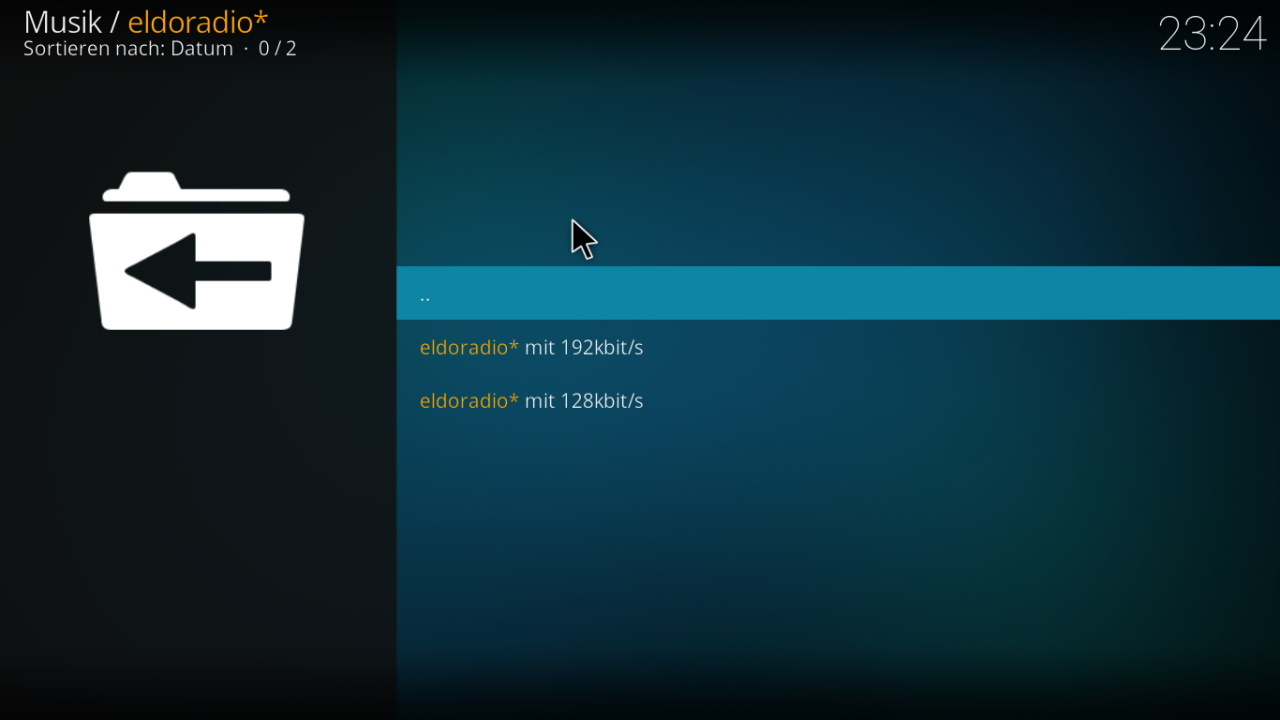
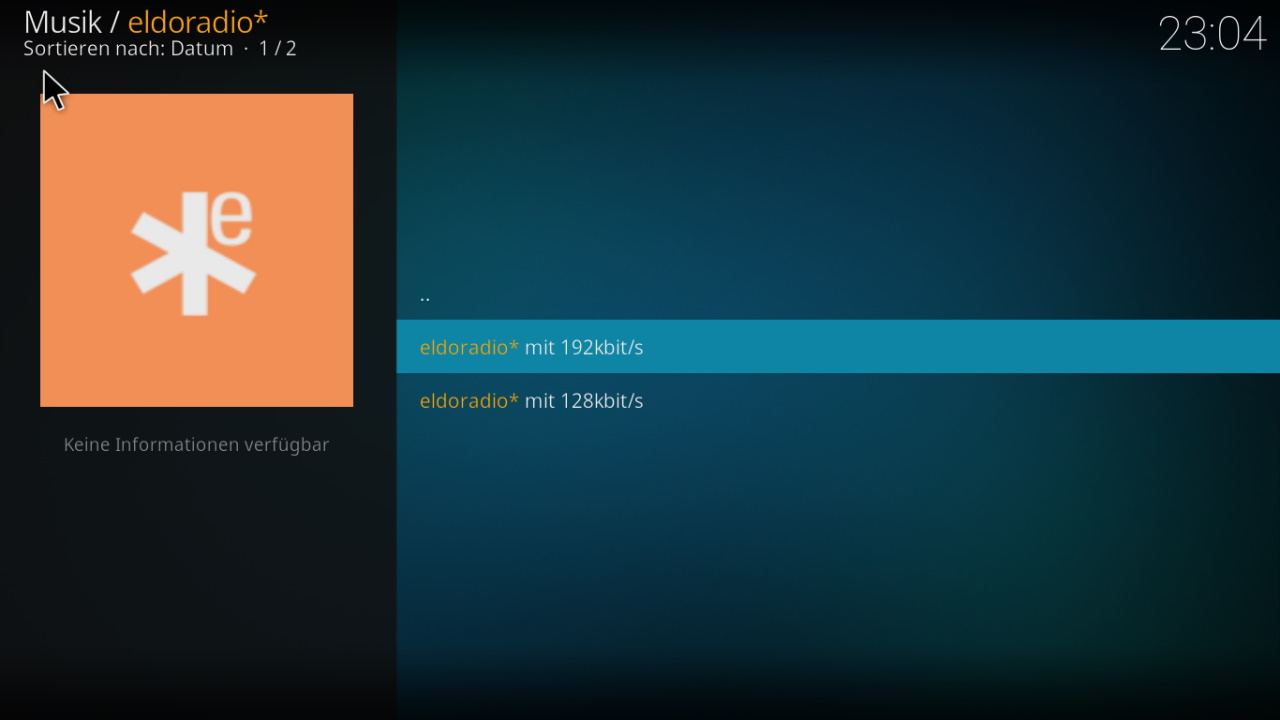
Den Sendern  Bilder hinzugefügt und Screenshorts Aktualisiert

diff --git a/plugin.audio.eldoradio/addon.py b/plugin.audio.eldoradio/addon.py
@@ -2,16 +2,19 @@
 # -*- coding: utf-8 -*-
 import xbmcplugin,xbmcaddon,xbmcgui,os,sys
 
+addon = xbmcaddon.Addon()
+addon_path = addon.getAddonInfo('path').decode('utf-8')
+icons_path = os.path.join(addon_path,'resources')
 xbmcplugin.setContent(handle=int(sys.argv[1]), content='songs')
 				
-def add_item(url,infolabels,):
-    listitem = xbmcgui.ListItem(infolabels['title'])
+def add_item(url,infolabels,img=''):
+    listitem = xbmcgui.ListItem(infolabels['title'],iconImage=img,thumbnailImage=img)
     listitem.setInfo('audio',infolabels)
     listitem.setProperty('IsPlayable','true')
     xbmcplugin.addDirectoryItem(int(sys.argv[1]),url,listitem)
 
-add_item('http://www.eldoradio.de/broadcast/192.m3u',{'title':'[COLOR orange]eldoradio*[/COLOR] mit 192kbit/s'})
-add_item('http://www.eldoradio.de/broadcast/128.m3u',{'title':'[COLOR orange]eldoradio*[/COLOR] mit 128kbit/s'})
+add_item('http://www.eldoradio.de/broadcast/192.m3u',{'title':'[COLOR orange]eldoradio*[/COLOR] mit 192kbit/s'},os.path.join(icons_path,'icon.png'))
+add_item('http://www.eldoradio.de/broadcast/128.m3u',{'title':'[COLOR orange]eldoradio*[/COLOR] mit 128kbit/s'},os.path.join(icons_path,'icon.png'))
 
 
 xbmcplugin.endOfDirectory( handle=int( sys.argv[ 1 ] ), succeeded=True, updateListing=False, cacheToDisc=True)
